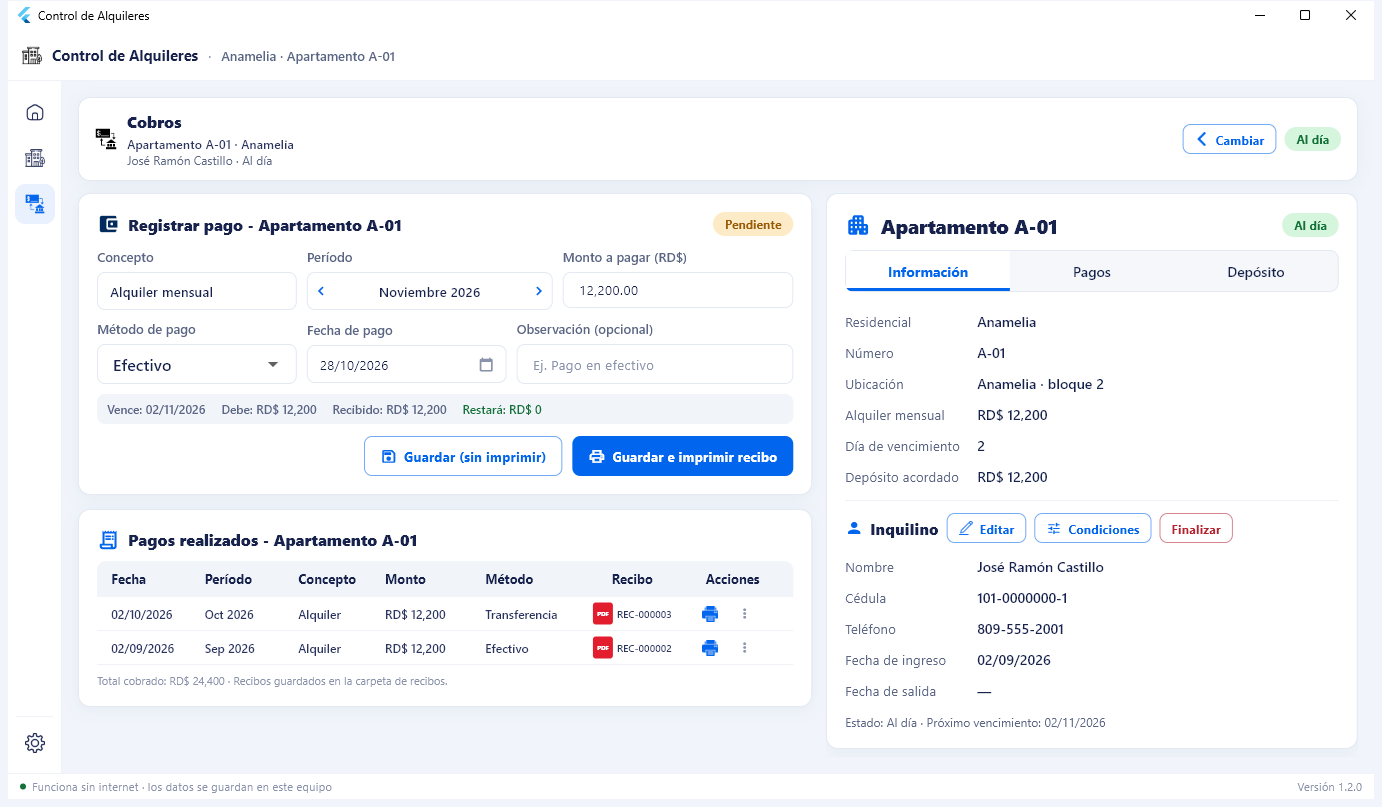
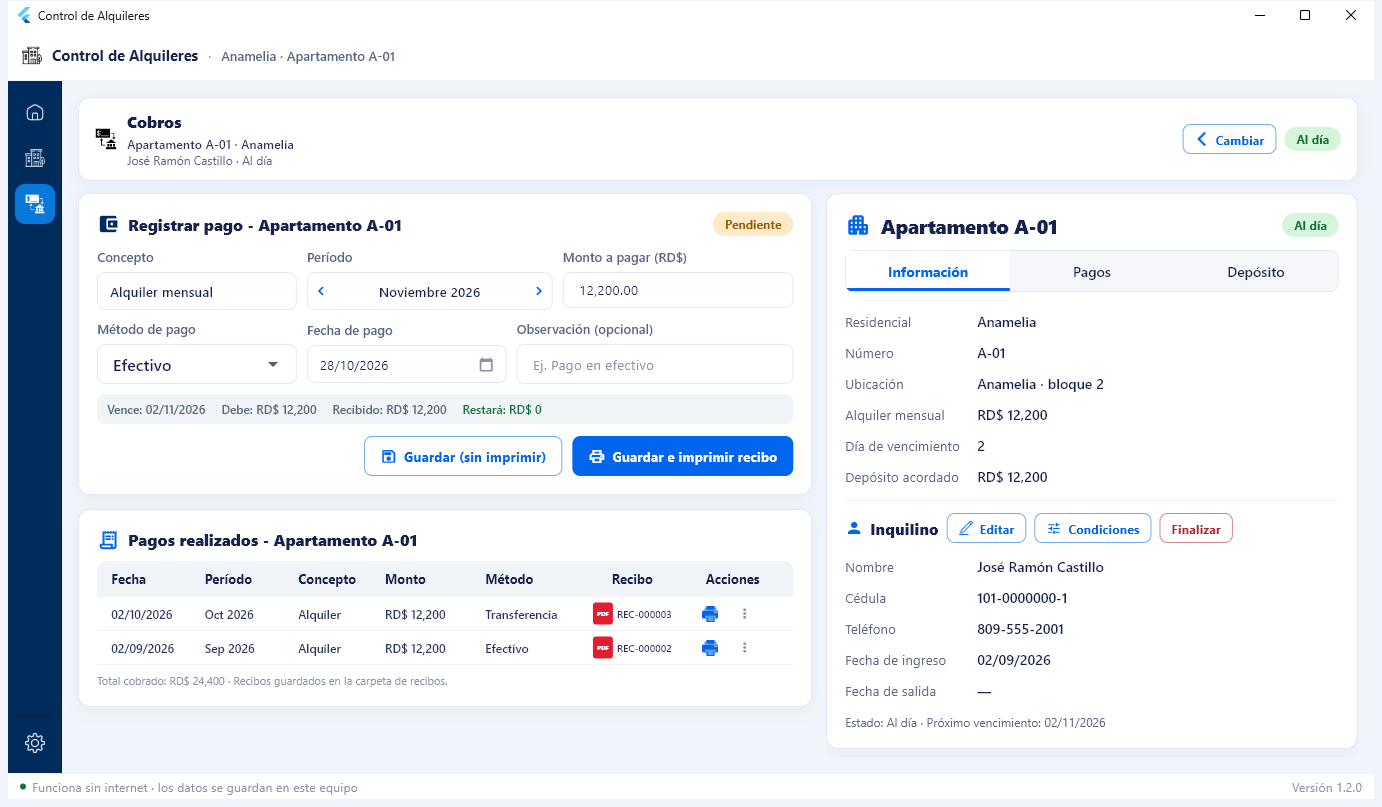
UI: barra lateral azul y barra de titulo nativa en blanco
- Sidebar con fondo AppColors.navy, iconos blancos y el destino activo en AppColors.activeTile
- Nuevo lib/src/ui/shell/window_frame.dart: DwmSetWindowAttribute 20/35/36 fija el caption en blanco con texto oscuro (independiente del tema de Windows)
- Capturas reales actualizadas en docs/capturas

Changed region(s): [[0.0, 0.0929, 0.2489, 0.9913], [0.9334, 0.9603, 0.9645, 0.9913]]

diff --git a/lib/src/ui/shell/sidebar.dart b/lib/src/ui/shell/sidebar.dart
@@ -7,7 +7,7 @@ import '../../app/app_controller.dart';
 import '../../theme/app_colors.dart';
 import '../widgets/app_icon.dart';
 
-/// Barra lateral delgada, **siempre** solo iconos (nunca se expande).
+/// Barra lateral azul delgada, **siempre** solo iconos (nunca se expande).
 ///
 /// * Arriba: los tres destinos principales (Inicio, Apartamentos, Cobros).
 /// * Abajo, separado: Configuración (único lugar desde donde se abre).
@@ -38,8 +38,8 @@ class AppSidebar extends StatelessWidget {
     return Container(
       width: width,
       decoration: const BoxDecoration(
-        color: Colors.white,
-        border: Border(right: BorderSide(color: AppColors.divider)),
+        color: AppColors.navy,
+        border: Border(right: BorderSide(color: AppColors.navyDeep)),
       ),
       child: Column(
         children: [
@@ -60,7 +60,7 @@ class AppSidebar extends StatelessWidget {
           const Spacer(),
           const Padding(
             padding: EdgeInsets.symmetric(horizontal: 8),
-            child: Divider(height: 1, color: AppColors.divider),
+            child: Divider(height: 1, color: AppColors.navyDeep),
           ),
           Padding(
             padding: const EdgeInsets.only(top: 6, bottom: 10),
@@ -110,10 +110,10 @@ class _SidebarTile extends StatelessWidget {
             height: 40,
             alignment: Alignment.center,
             decoration: BoxDecoration(
-              color: active ? AppColors.primarySoft : Colors.transparent,
+              color: active ? AppColors.activeTile : Colors.transparent,
               borderRadius: BorderRadius.circular(10),
               border: Border.all(
-                color: active ? AppColors.primarySoft : Colors.transparent,
+                color: active ? AppColors.activeTile : Colors.transparent,
               ),
             ),
             child: Padding(
@@ -123,9 +123,11 @@ class _SidebarTile extends StatelessWidget {
               child: AppIconView(
                 icon,
                 size: 22,
-                // El PNG original es negro: en el elemento activo se tiñe de
-                // azul para que se distinga sin fondo oscuro.
-                color: active ? AppColors.primary : AppColors.textStrong,
+                // Los PNG originales son negros: sobre el azul se tiñen de
+                // blanco, y el elemento activo va sobre azul más claro.
+                color: active
+                    ? Colors.white
+                    : Colors.white.withValues(alpha: 0.88),
                 semanticLabel: label,
               ),
             ),

diff --git a/lib/src/ui/shell/window_frame.dart b/lib/src/ui/shell/window_frame.dart
@@ -1,0 +1,55 @@
+import 'dart:ffi';
+import 'dart:io';
+
+import 'package:ffi/ffi.dart';
+import 'package:window_manager/window_manager.dart';
+
+/// Pinta la **barra de título nativa** de Windows en blanco.
+///
+/// Windows decide el color del marco con `DWMWA_USE_IMMERSIVE_DARK_MODE`, y
+/// `window_manager.setBrightness` solo lo cambia si puede leer el registro de
+/// tema del usuario. Cuando esa lectura falla o el sistema está en modo oscuro
+/// el marco sale negro y no combina con la interfaz clara, así que aquí se fija
+/// el color de forma explícita (Windows 11):
+///
+/// * `DWMWA_USE_IMMERSIVE_DARK_MODE = 20` → `FALSE`.
+/// * `DWMWA_CAPTION_COLOR = 35` → blanco (`0x00FFFFFF`, orden COLORREF BGR).
+/// * `DWMWA_TEXT_COLOR = 36` → texto oscuro.
+///
+/// En Windows 10 los atributos 35/36 no existen: la llamada devuelve error y se
+/// ignora sin romper nada (el marco queda como esté configurado en el sistema).
+Future<void> applyLightTitleBar() async {
+  if (!Platform.isWindows) return;
+  try {
+    final handle = await windowManager.getId();
+    if (handle == 0) return;
+    final dwmapi = DynamicLibrary.open('dwmapi.dll');
+    final setAttribute = dwmapi
+        .lookupFunction<
+          Int32 Function(IntPtr, Uint32, Pointer<Void>, Uint32),
+          int Function(int, int, Pointer<Void>, int)
+        >('DwmSetWindowAttribute');
+    final value = calloc<Int32>();
+    try {
+      value.value = 0; // 0 = sin modo oscuro.
+      setAttribute(handle, 20, value.cast<Void>(), sizeOf<Int32>());
+      value.value = 0x00FFFFFF; // Blanco.
+      setAttribute(handle, 35, value.cast<Void>(), sizeOf<Int32>());
+      value.value = 0x001A1A1A; // Texto casi negro.
+      setAttribute(handle, 36, value.cast<Void>(), sizeOf<Int32>());
+    } finally {
+      calloc.free(value);
+    }
+  } catch (_) {
+    // Sin DWM (o Windows 10): se deja el marco del sistema.
+  }
+}
+
+/// Igual que [applyLightTitleBar] pero sin esperar: útil tras mostrar la
+/// ventana, cuando el identificador nativo ya existe.
+void applyLightTitleBarSoon() {
+  // Se repite a los pocos milisegundos porque al maximizar Windows vuelve a
+  // aplicar el tema del sistema al marco.
+  applyLightTitleBar();
+  Future<void>.delayed(const Duration(milliseconds: 400), applyLightTitleBar);
+}

diff --git a/lib/main.dart b/lib/main.dart
@@ -12,6 +12,7 @@ import 'src/services/backup_service.dart';
 import 'src/services/startup_service.dart';
 import 'src/theme/app_colors.dart';
 import 'src/theme/app_theme.dart';
+import 'src/ui/shell/window_frame.dart';
 
 Future<void> main() async {
   WidgetsFlutterBinding.ensureInitialized();
@@ -84,6 +85,8 @@ Future<void> main() async {
     // La barra de título la dibuja Windows; se pide en claro para que combine
     // con la interfaz (si el sistema está en modo oscuro, el marco sería negro).
     await windowManager.setBrightness(Brightness.light);
+    await applyLightTitleBar();
+    applyLightTitleBarSoon();
   } catch (_) {
     // Si el entorno no permite gestionar la ventana, se continúa igual.
   }

diff --git a/docs/INVENTARIO_CONTROLES.md b/docs/INVENTARIO_CONTROLES.md
@@ -15,8 +15,8 @@ Todo lo financiero se prueba contra SQLite real; nada simula dinero.
 
 | Control | Estado | Nota |
 |---|---|---|
-| Barra de título, minimizar, maximizar/restaurar, cerrar | FUNCIONA | Son los controles **nativos** de Windows (`TitleBarStyle.normal`); la app no dibuja botones falsos |
-| Barra lateral: Inicio / Apartamentos / Cobros | FUNCIONA | Siempre contraída (54 px), solo iconos, tooltip en español y etiqueta de accesibilidad |
+| Barra de título, minimizar, maximizar/restaurar, cerrar | FUNCIONA | Son los controles **nativos** de Windows (`TitleBarStyle.normal`); la app no dibuja botones falsos. El marco se fija en **blanco** con `DwmSetWindowAttribute` (atributos 20/35/36) |
+| Barra lateral: Inicio / Apartamentos / Cobros | FUNCIONA | Azul (`AppColors.navy`), siempre contraída (54 px), iconos blancos y el activo en azul con tooltip en español |
 | **Configuración** (icono inferior, separado) | FUNCIONA | Único lugar desde donde se abre Ajustes; ya no hay engranaje arriba a la derecha |
 | Arrastrar / redimensionar la ventana | FUNCIONA | Marco nativo; mínimo 960×540 |
 | Pie de página | FUNCIONA | Aviso "funciona sin internet" y versión |
@@ -165,8 +165,8 @@ Ninguna es un error; se listan para decidir después:
 5. En ventanas bajas la pantalla de Inicio pasa a una sola columna con la lista
    acotada, en lugar de comprimir los paneles; la fila que queda cortada se
    difumina para que se entienda que la lista continúa.
-6. La barra de título la dibuja **Windows** (color claro pedido con
-   `setBrightness`), así que su altura y sus iconos son los del sistema y no los
-   de la captura de referencia.
+6. La barra de título la dibuja **Windows** (altura e iconos del sistema), pero su
+   color se fuerza a blanco con texto oscuro; si el equipo no tiene DWM
+   (Windows 10 antiguo) queda el color del tema del sistema.
 7. Ajustes se abre solo desde el icono inferior de la barra lateral; ya no hay
    engranaje en la esquina superior derecha.

diff --git a/README.md b/README.md
@@ -193,8 +193,10 @@ docs/GUIA_RAPIDA.md           guía de una página para la dueña
   perder el historial.
 * **Marco nativo de Windows**: la barra de título, minimizar, maximizar, cerrar,
   arrastre y ajuste por DPI los dibuja el sistema operativo (`TitleBarStyle.normal`);
-  la aplicación no pinta botones falsos. Mínimo 960×540 (1366×768 al 125 % deja
-  ~1093×578).
+  la aplicación no pinta botones falsos. El marco se fuerza a **blanco**
+  (`DwmSetWindowAttribute`: sin modo oscuro, color de título blanco y texto
+  oscuro) para que combine con la interfaz aunque Windows esté en tema oscuro.
+  Mínimo 960×540 (1366×768 al 125 % deja ~1093×578).
 
 ### Comportamiento por tamaño
 
@@ -211,8 +213,9 @@ Probado sin desbordes en 1536×1024, 1366×768, 1280×720, 1093×578, 1024×576 
 
 ## Navegación e iconos
 
-Barra lateral **siempre contraída** (54 px): tres destinos arriba y
-**Configuración** abajo, separada (es el único sitio desde donde se abre).
+Barra lateral **azul y siempre contraída** (54 px, `AppColors.navy`): tres
+destinos arriba con el activo en azul (`AppColors.activeTile`) e iconos blancos,
+y **Configuración** abajo, separada (es el único sitio desde donde se abre).
 
 | Sección | Responsabilidad única |
 |---|---|
